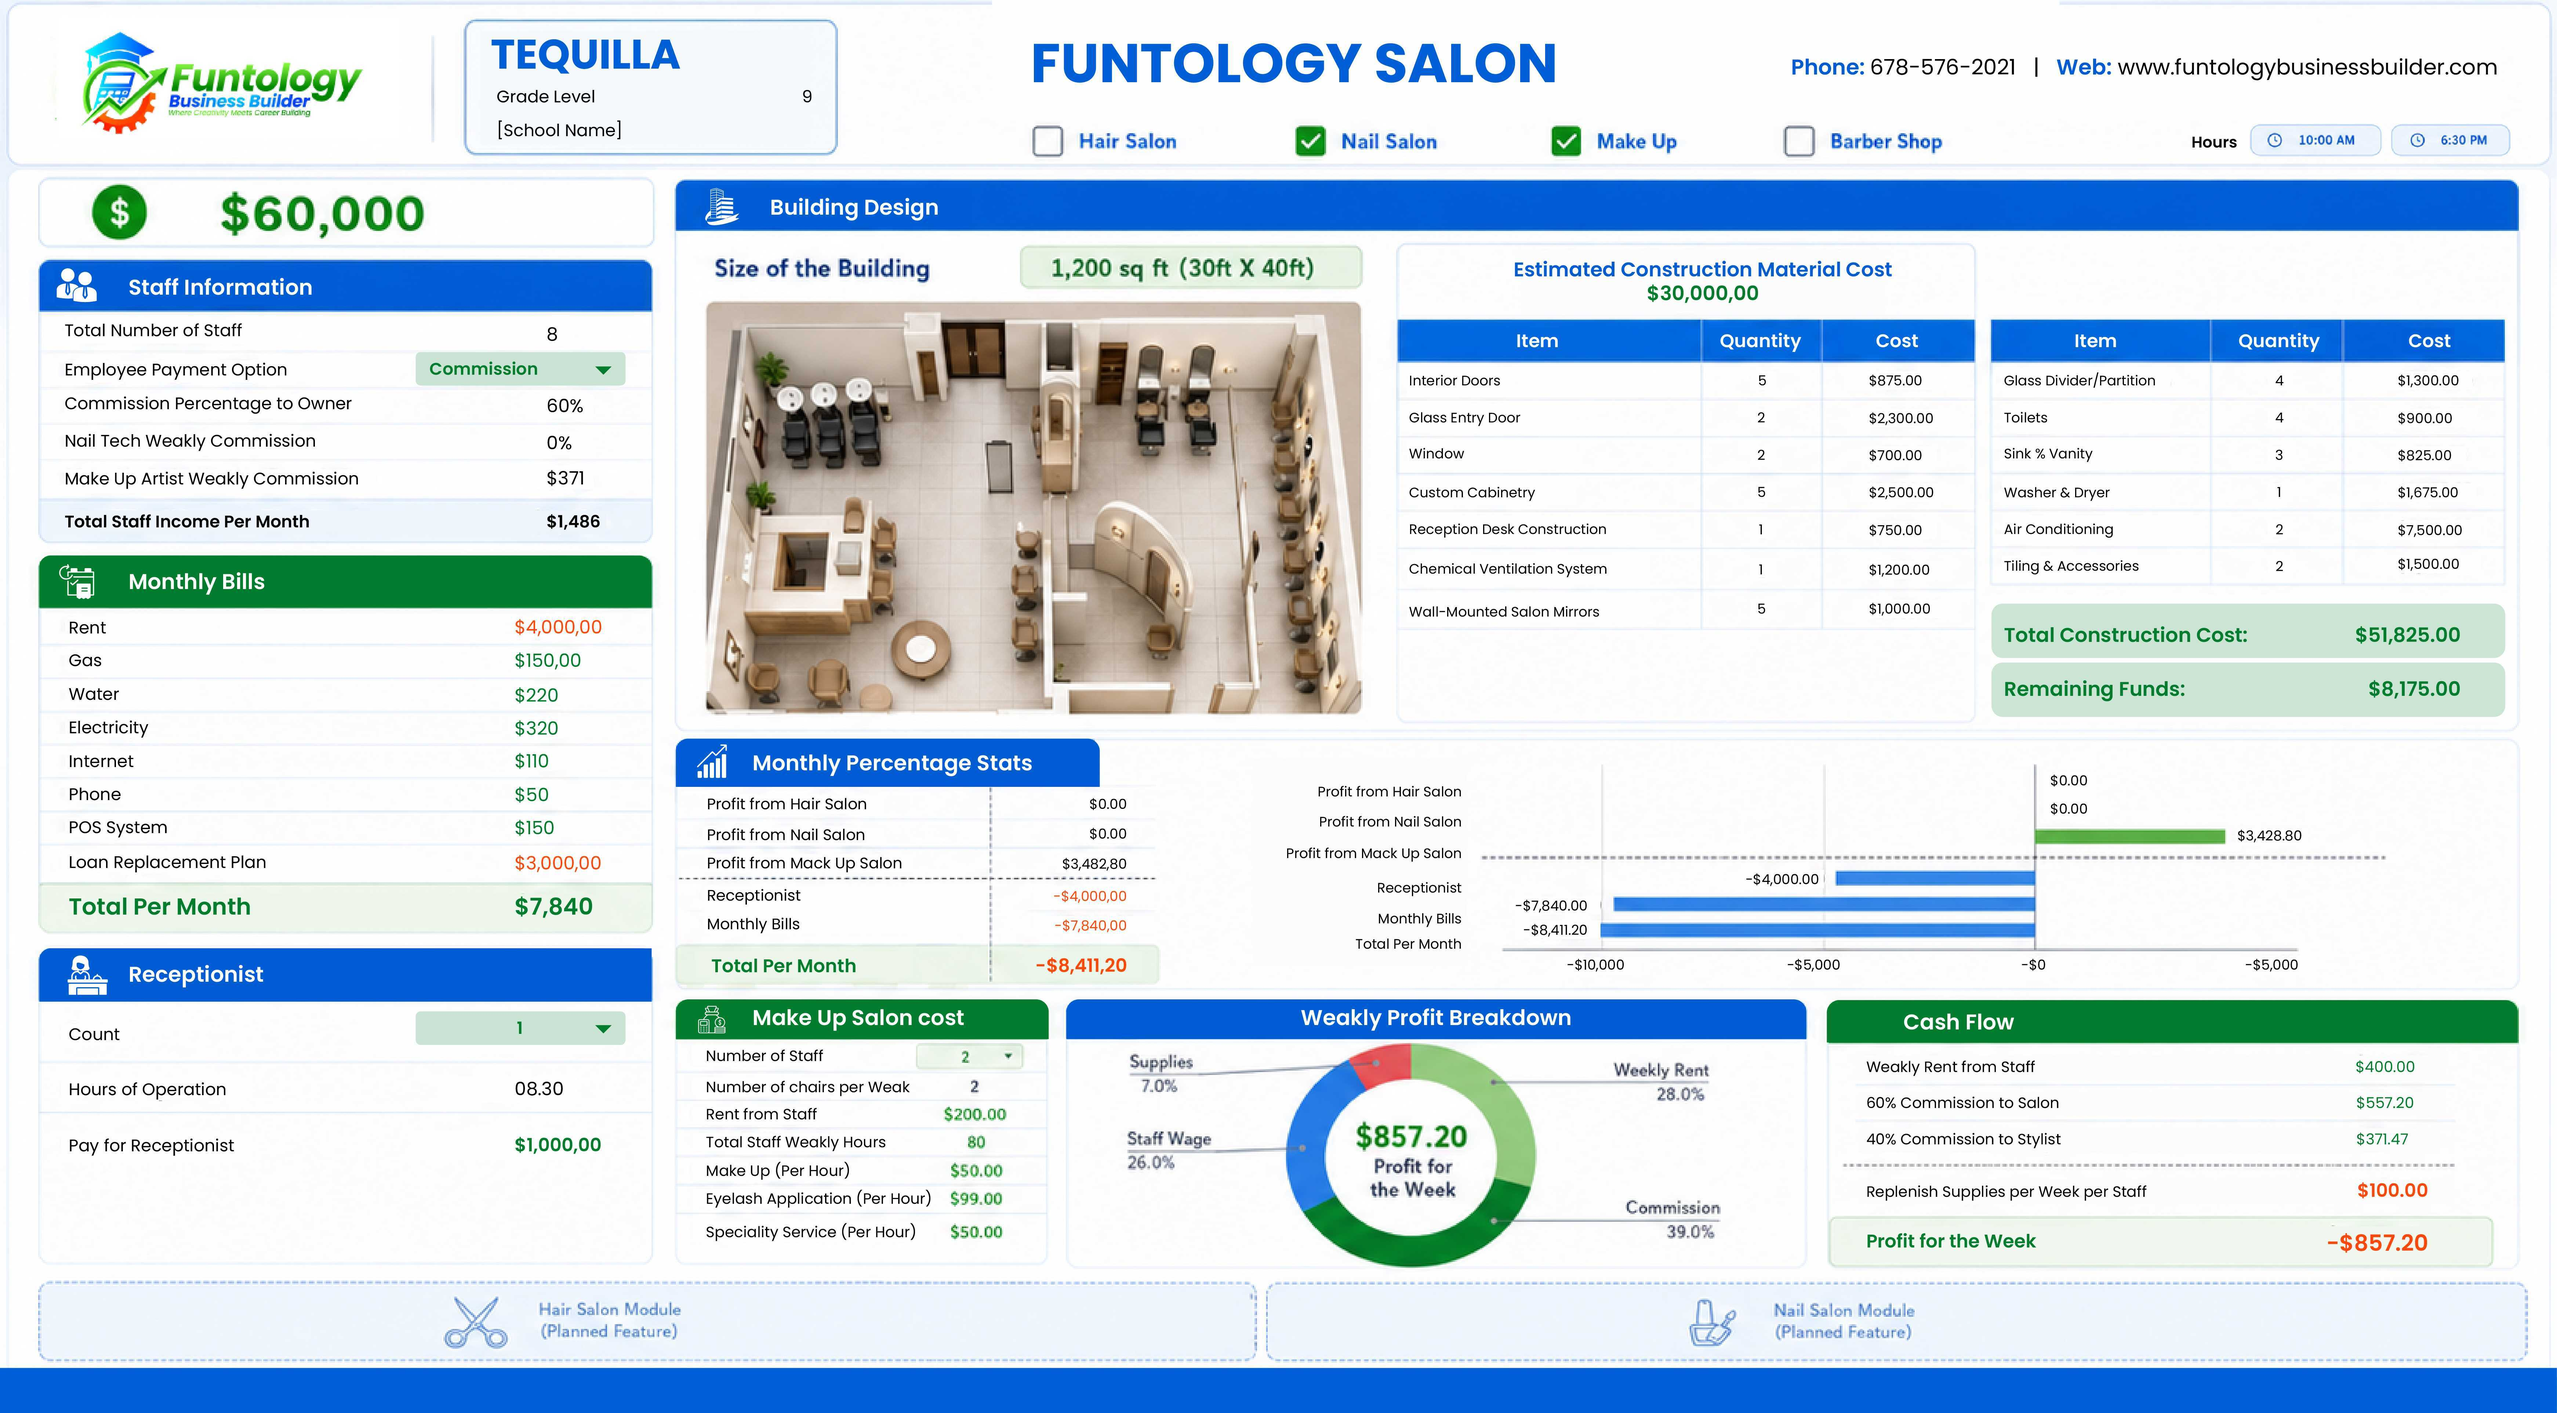
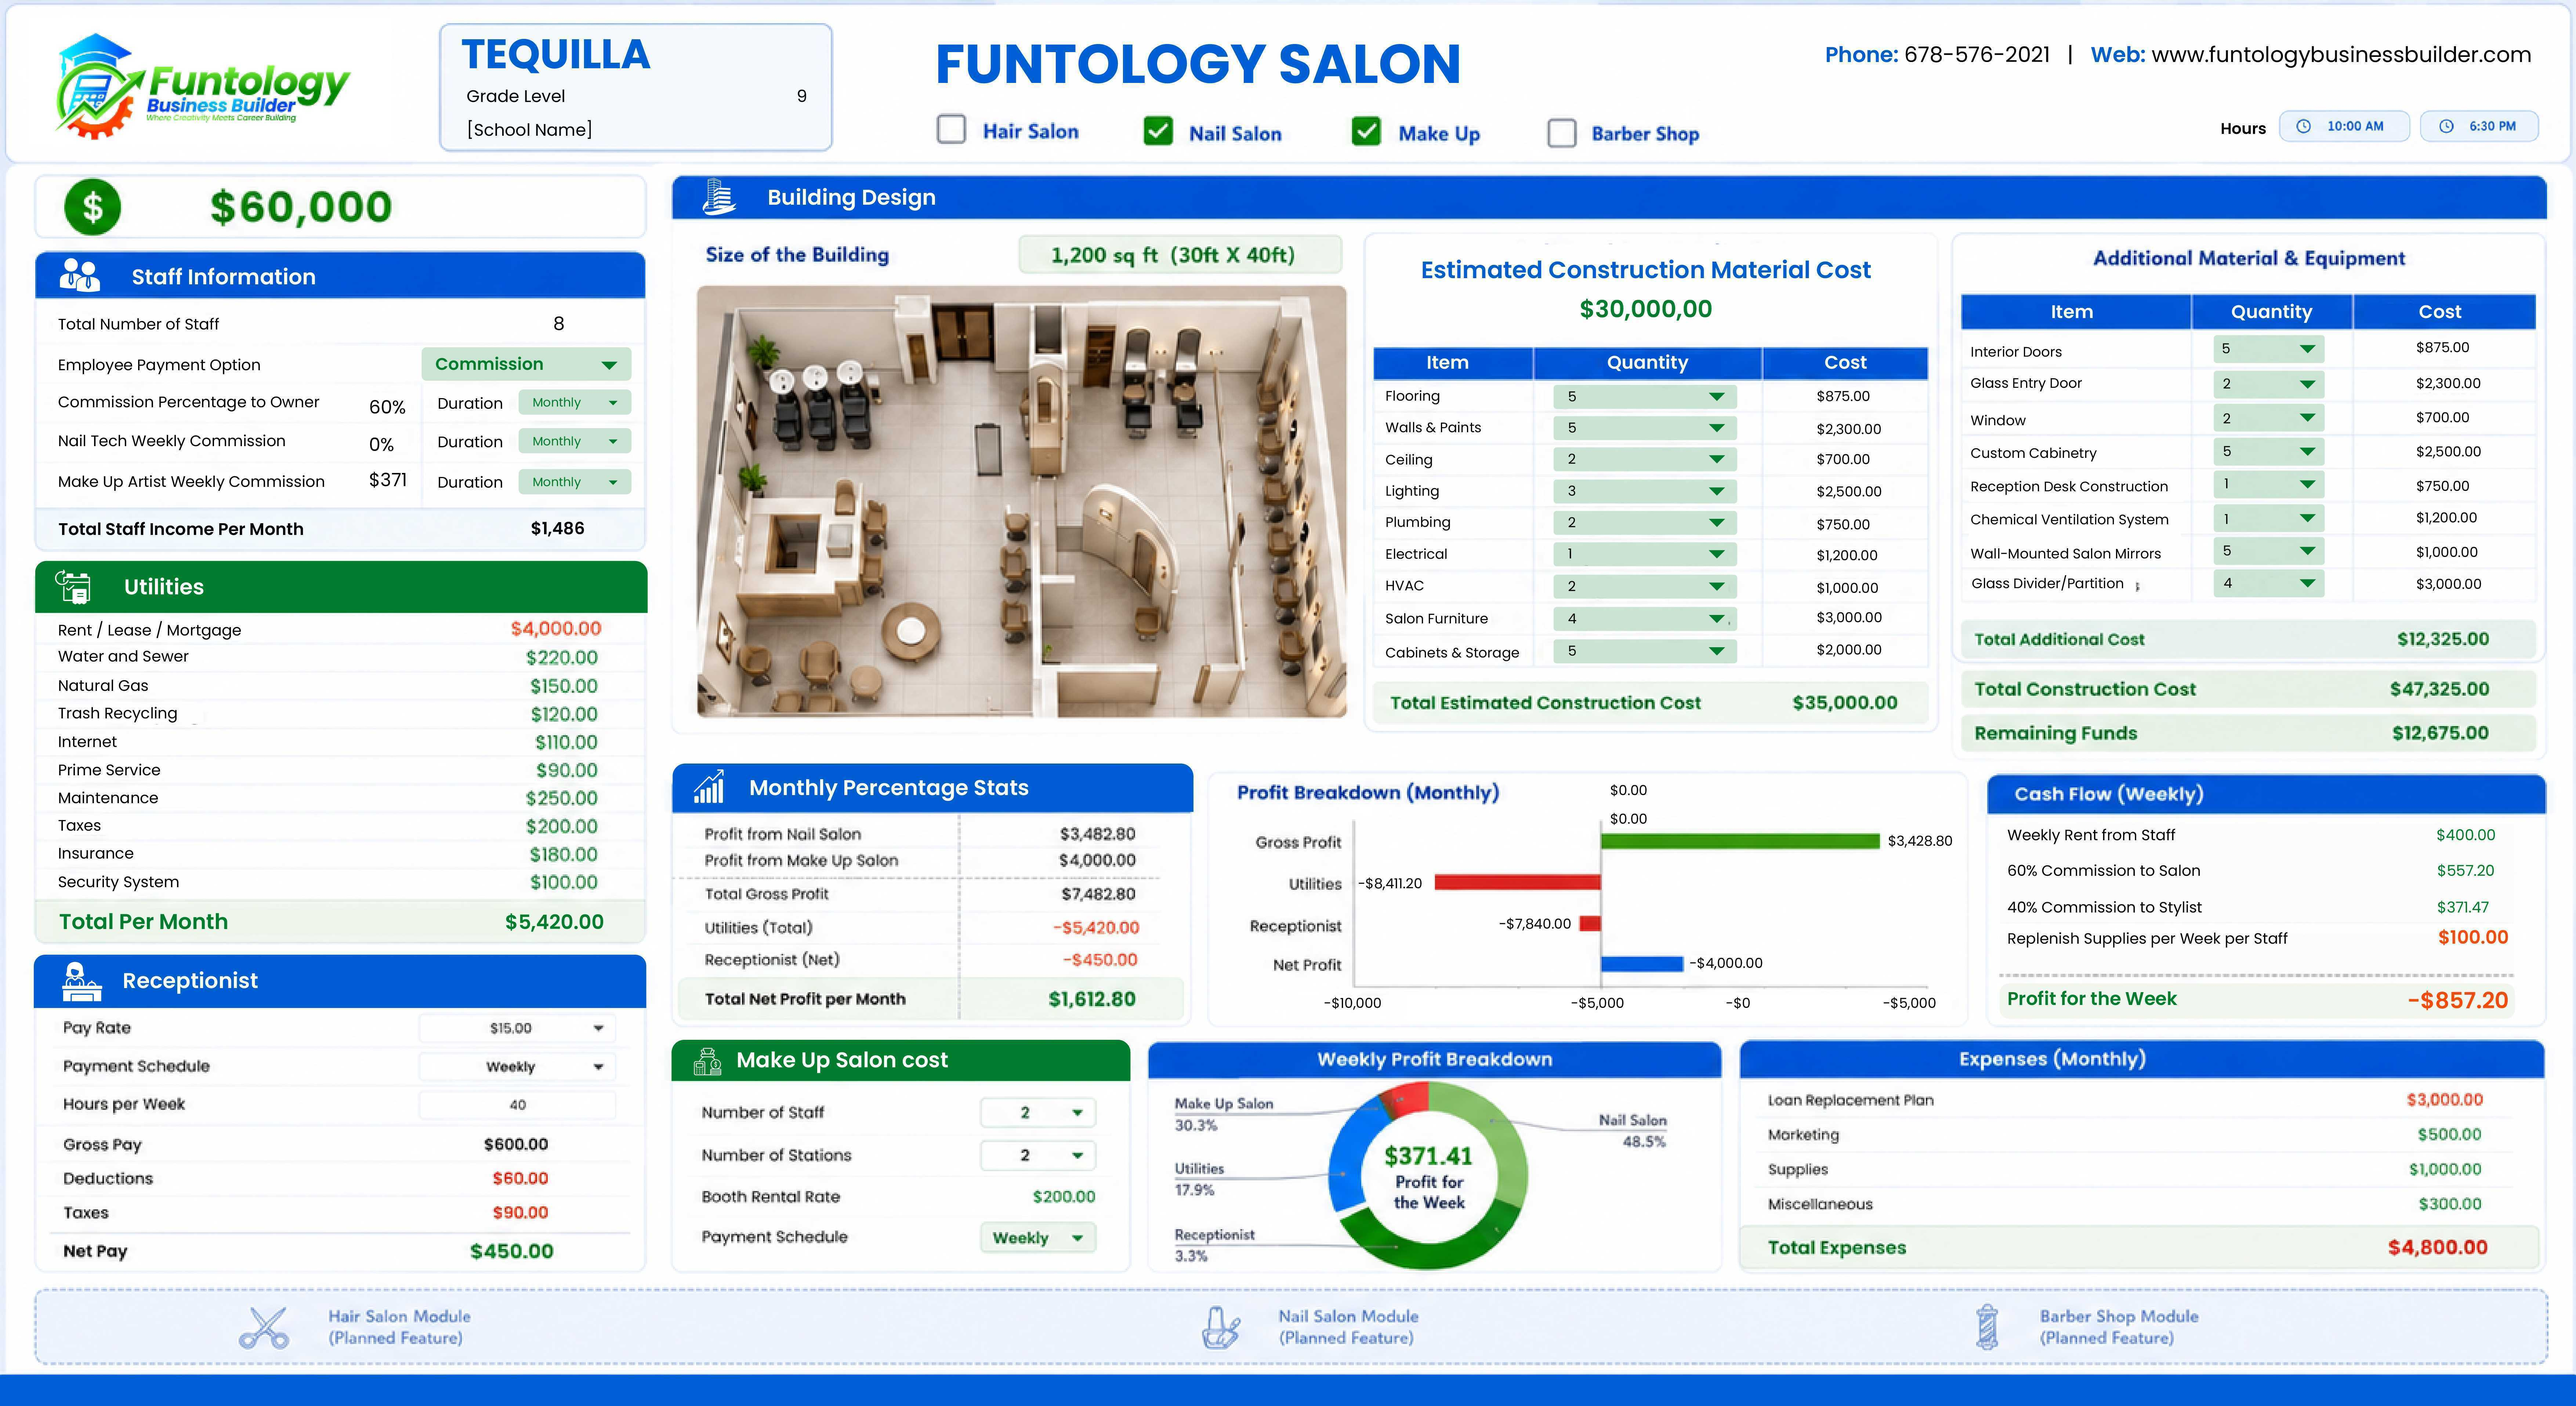
Update IfuntologySidebarGroup to include a "Back to Shop" link when navigating from the shop, enhance session storage management, and adjust course links in ShopPage for internal navigation. Update image assets for consistency.

diff --git a/src/components/layout/IfuntologySidebarGroup.tsx b/src/components/layout/IfuntologySidebarGroup.tsx
@@ -1,5 +1,6 @@
-import { ChevronRight, Sparkles } from "lucide-react";
-import { useLocation } from "react-router-dom";
+import { ArrowLeft, ChevronRight, Sparkles } from "lucide-react";
+import { Link, useLocation } from "react-router-dom";
+import { useEffect, useState } from "react";
 import { NavLink } from "@/components/NavLink";
 import {
   Collapsible,
@@ -15,6 +16,7 @@ import {
   useSidebar,
 } from "@/components/ui/sidebar";
 import {
+  IFUNTOLOGY_FROM_SHOP_KEY,
   IFUNTOLOGY_NAV_ITEMS,
   isIfuntologySectionActive,
 } from "@/pages/ifuntology/constants/navItems";
@@ -24,6 +26,18 @@ export default function IfuntologySidebarGroup() {
   const collapsed = state === "collapsed";
   const { pathname } = useLocation();
   const isActiveSection = isIfuntologySectionActive(pathname);
+  const [fromShop, setFromShop] = useState(false);
+
+  useEffect(() => {
+    setFromShop(sessionStorage.getItem(IFUNTOLOGY_FROM_SHOP_KEY) === "1");
+  }, [pathname]);
+
+  const showBackToShop = fromShop && isActiveSection;
+
+  const handleBackToShop = () => {
+    sessionStorage.removeItem(IFUNTOLOGY_FROM_SHOP_KEY);
+    setFromShop(false);
+  };
 
   return (
     <Collapsible defaultOpen={isActiveSection} className="group/collapsible">
@@ -40,6 +54,20 @@ export default function IfuntologySidebarGroup() {
         {!collapsed && (
           <CollapsibleContent>
             <SidebarMenuSub>
+              {showBackToShop && (
+                <SidebarMenuSubItem>
+                  <SidebarMenuSubButton asChild>
+                    <Link
+                      to="/shop"
+                      onClick={handleBackToShop}
+                      className="w-full text-sidebar-foreground/90"
+                    >
+                      <ArrowLeft className="h-3.5 w-3.5 shrink-0" />
+                      <span>Back to Shop</span>
+                    </Link>
+                  </SidebarMenuSubButton>
+                </SidebarMenuSubItem>
+              )}
               {IFUNTOLOGY_NAV_ITEMS.map((item) => (
                 <SidebarMenuSubItem key={item.url}>
                   <SidebarMenuSubButton asChild>

diff --git a/src/pages/shop/index.tsx b/src/pages/shop/index.tsx
@@ -1,6 +1,6 @@
 import { useCallback, useEffect, useMemo, useState } from "react";
 import { useDispatch, useSelector } from "react-redux";
-import { useLocation, useNavigate } from "react-router-dom";
+import { Link, useLocation, useNavigate } from "react-router-dom";
 import { AlertTriangle, Check, ChevronDown, GraduationCap, PenTool, Store } from "lucide-react";
 import {
   Dialog,
@@ -43,6 +43,7 @@ import {
   lmsFieldRequired,
   lmsFieldSelect,
 } from "./components/shopLmsStyles";
+import { IFUNTOLOGY_FROM_SHOP_KEY } from "@/pages/ifuntology/constants/navItems";
 import {
   enrichmentFieldInput,
   enrichmentFieldLabel,
@@ -116,6 +117,10 @@ export default function ShopPage() {
   const [wtrNumberOfSeats, setWtrNumberOfSeats] = useState("1");
   const [wtrBookPrinting, setWtrBookPrinting] = useState(false);
   const [taxExempt, setTaxExempt] = useState(false);
+
+  useEffect(() => {
+    sessionStorage.removeItem(IFUNTOLOGY_FROM_SHOP_KEY);
+  }, []);
 
   useEffect(() => {
     if (user?.email) {
@@ -448,18 +453,17 @@ export default function ShopPage() {
               footer={
                 <div className="mt-6 grid max-w-[360px] grid-cols-2 gap-3">
                   {lmsCoursePills.map((pill) => (
-                    <a
+                    <Link
                       key={pill.label}
-                      href={pill.link}
-                      target="_blank"
-                      rel="noopener noreferrer"
+                      to={pill.link}
+                      onClick={() => sessionStorage.setItem(IFUNTOLOGY_FROM_SHOP_KEY, "1")}
                       className={cn(
                         "rounded-md px-3 py-3 text-center text-sm font-bold tracking-wide text-white font-serif transition-opacity hover:opacity-90",
                         pill.className
                       )}
                     >
                       {pill.label}
-                    </a>
+                    </Link>
                   ))}
                 </div>
               }

diff --git a/src/pages/shop/components/shopLmsStyles.ts b/src/pages/shop/components/shopLmsStyles.ts
@@ -29,21 +29,21 @@ export const lmsCoursePills = [
   {
     label: "Funtology",
     className: "bg-gradient-to-b from-[#c6285c] to-[#7b1538] shadow-[0_4px_12px_rgba(123,21,56,0.45)]",
-    link: "https://erp.ifuntology.com/courses/funtology",
+    link: "/courses/funtology",
   },
   {
     label: "Barbertology",
     className: "bg-gradient-to-b from-[#c9a227] to-[#7a5f12] shadow-[0_4px_12px_rgba(122,95,18,0.4)]",
-    link: "https://erp.ifuntology.com/courses/barbertology",
+    link: "/courses/barbertology",
   },
   {
     label: "Nailtology",
     className: "bg-gradient-to-b from-[#00838f] to-[#004d56] shadow-[0_4px_12px_rgba(0,77,86,0.4)]",
-    link: "https://erp.ifuntology.com/courses/nailtology",
+    link: "/courses/nailtology",
   },
   {
     label: "Skintology",
     className: "bg-gradient-to-b from-[#43a047] to-[#1b5e20] shadow-[0_4px_12px_rgba(27,94,32,0.4)]",
-    link: "https://erp.ifuntology.com/courses/skintology",
+    link: "/courses/skintology",
   },
 ] as const;

diff --git a/src/pages/subscribetoLMS/index.tsx b/src/pages/subscribetoLMS/index.tsx
@@ -168,14 +168,14 @@ function CourseCard({
                     <h3 className="mb-2 text-2xl font-bold text-slate-900">
                         {courseType}
                     </h3>
-                    <div className="mb-6 flex items-baseline">
+                    {/* <div className="mb-6 flex items-baseline">
                         <span className={`text-3xl font-bold ${theme.priceColor}`}>
                             ${total.toFixed(2)}
                         </span>
                         <span className="ml-2 text-sm text-slate-600 font-medium">
                             {HARDCODED_DURATION}
                         </span>
-                    </div>
+                    </div> */}
 
                     <ul className="mb-8 space-y-3">
                         {features.map((feature: string, i: number) => (

diff --git a/src/pages/qutationTracking/index.tsx b/src/pages/qutationTracking/index.tsx
@@ -105,7 +105,8 @@ export default function QutationTracking() {
             </div>
 
             <div className="flex items-center gap-3 justify-end">
-              <NavLink to="/quotes/request" className="w-max">
+              {/* <NavLink to="/quotes/request" className="w-max"> */}
+              <NavLink to="/shop" className="w-max">
                 <Button variant="brand">+ Request Quotation</Button>
               </NavLink>
             </div>

diff --git a/src/pages/ifuntology/constants/navItems.ts b/src/pages/ifuntology/constants/navItems.ts
@@ -1,3 +1,5 @@
+export const IFUNTOLOGY_FROM_SHOP_KEY = "ifuntology-from-shop";
+
 export const IFUNTOLOGY_NAV_ITEMS = [
   { title: "Funtology", url: "/courses/funtology" },
   { title: "Barbertology", url: "/courses/barbertology" },
